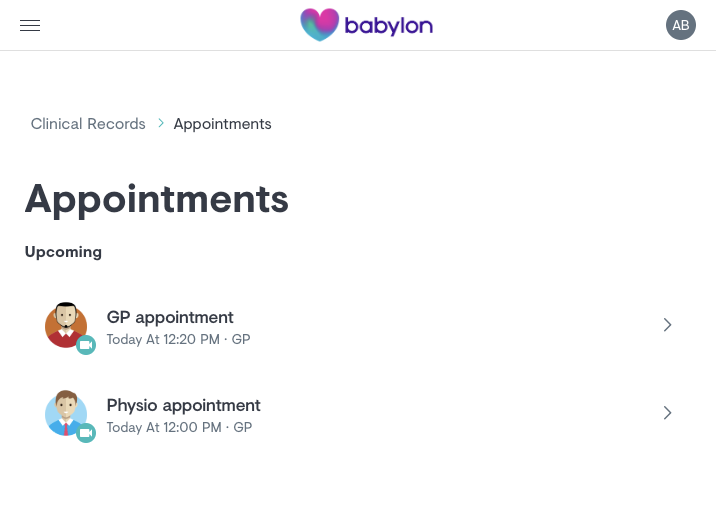
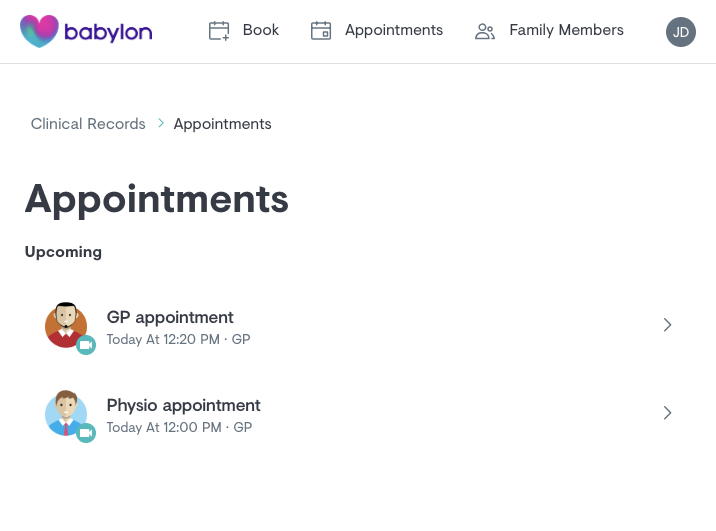
exchange side menu with header links, move homepage implementation to bonus points

Changed region(s): [[0.0, 0.0, 1.0, 0.1205]]

diff --git a/README.md b/README.md
@@ -54,10 +54,8 @@ The final design of the client should look and feel like the design files we hav
 
 ### Pages
 
-* homepage: `design/homepage.png`
-	* menu: `design/menu.png`
-* book an appointment: `design/new-appointment.png`
 * list appointments: `design/appointments.png`
+* book an appointment: `design/new-appointment.png`
 
 ## API
 
@@ -95,6 +93,7 @@ If you feel like spending a bit more time on this then here are some additions y
 
 * edit family members: `design/edit-family-members.png`
 * book an appointment for family member: `design/new-appointment-change-family-member.png`
+* homepage: `design/homepage.png`
 
 #### Bonus API
 
